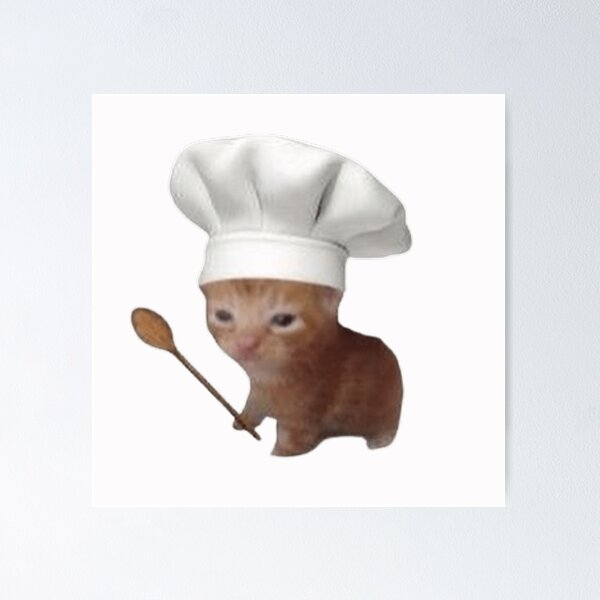
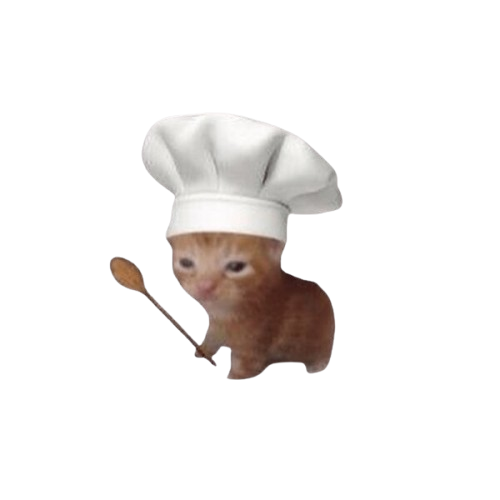
g

diff --git a/index.html b/index.html
@@ -13,7 +13,7 @@
     <header>
 
         <div class="fitness">
-            <h1>RECEITAS</h1><img class="gatito" src="gato-removebg-preview.png" alt="imagem do gatito cozinerito">
+            <h1>RECEITAS</h1><img class="gatito" src="gato.png" alt="imagem do gatito cozinerito">
         </div>
     </header>
  <main>
